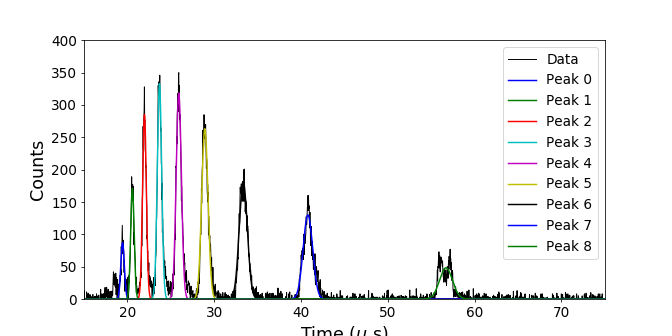
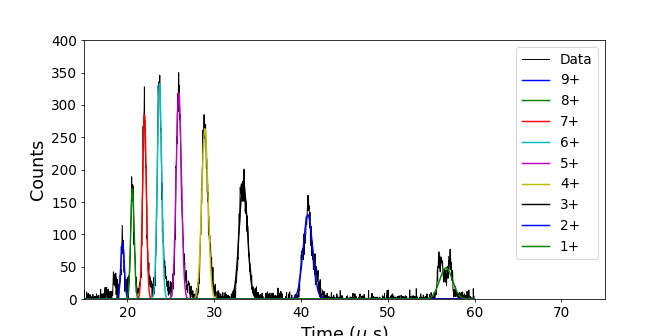
Added charge states on graph

diff --git a/analysis.py b/analysis.py
@@ -82,6 +82,8 @@ Flag_Fig0 = 0  # Flag for plotting/displaying figure - Raw spectra
 Flag_Fig1 = 0  # Flag for plotting/displaying figure - Subtracted spectra and fits
 Flag_Fig2 = 0  # Flag for plotting/displaying figure - Width vs Mean
 Flag_Fig3 = 1  # Flag for plotting/displaying figure - Plots of Time ratio and Charge ratio
+Flag_Fig4 = 1  # Flag for plotting/displaying final figure - Peaks identified by charge state
+
 colors = itertools.cycle(["b", "g", "r", "c", "m", "y", "k"])  # Colors database for plotting
 
 # Fitting parameters
@@ -89,26 +91,26 @@ time_const = 0.03  # Bin width during measurement in microseconds (Default 30 ns
 wid = 0.5  # Initial variables for fitting peak - width of peak (in us)
 dis = 40  # Distance (in channel) between two consecutive peak search
 h = 75  # Threshold for peak search
-# mass_Cs = 133
-# z_Cs = 55
-
+mass_Cs = 133  # Mass of ion
+z_Cs = 55  # Atomic number of ion
+length = 1200  # Length of spectrum used in analysis (Max channel number)
 # ----------------------------------------
 # An inline test function for Gaussian distribution, may be useless for this program but good tool for future use.
 # gaus = lambda x, *p: p[0]*exp(-((x-p[1])/p[2])**2)
 
 # File read and data sorting performed here. Zeroth (First) line is header. usecols could be set to 1 but I have left
 # it as 'range' to make it future proof. Range selects number of columns to be imported.
-# df is the data file and df_back is the background file.
+# data_file is the data file and data_file_bkg is the background file.
 data_file = pd.read_csv("./data/Cs_chargebred_1ms_13_12_2019__2_02_33_PM.txt", header=0, usecols=[i for i in range(1)])
 data_file_bkg = pd.read_csv("./data/Cs_chargebred_1ms_bkg_13_12_2019__2_09_10_PM.txt", header=0,
                             usecols=[i for i in range(1)])
 x = pd.Series(time_const * np.arange(len(data_file)))  # Creating an x-axis (time) as this is a 1D data
-dd = pd.concat([x, data_file], axis=1)  # Concatenating data in a pandas dataframe from x and y variables.
+dd = pd.concat([x[1:length], data_file[1:length]], axis=1)  # Concatenating data in a pandas dataframe from x and y variables.
 dd.columns = ['Time', 'Counts']  # Adding column headers manually
 # x = dd.loc[:, 'Time']
 y_raw = dd.loc[:, 'Counts']  # y raw data
 
-dd = pd.concat([x, data_file_bkg], axis=1)  # Creating datframe for background data
+dd = pd.concat([x[1:length], data_file_bkg[1:length]], axis=1)  # Creating datframe for background data
 dd.columns = ['Time', 'Counts']  # Adding column headers manually
 y_back = dd.loc[:, 'Counts']  # y background data
 
@@ -119,8 +121,8 @@ y_vals = y_raw - y_back  # Final subtracted y values
 if Flag_Fig0 == 1:
     # Section to see visually how spectra look.
     plt.figure(0, figsize=plt.figaspect(0.5), dpi=dpiCount)
-    plt.plot(x, y_raw, '-g', Linewidth=1, label="Raw Data")
-    plt.plot(x, y_back, '-r', Linewidth=1, label="Background")
+    plt.plot(x_vals, y_raw, '-g', Linewidth=1, label="Raw Data")
+    plt.plot(x_vals, y_back, '-r', Linewidth=1, label="Background")
     plt.plot(x_vals, y_vals, '-k', Linewidth=1, label="Subtracted Data")
     plt.legend(loc="upper right", fontsize=18)
     plt.xlim(10, 70)
@@ -189,16 +191,16 @@ time_ratio_round = round_array(time_ratio, 2)  # Rounded to 2 decimal places but
 charge = np.arange(1, z_Cs)
 charge_state_min = 1
 charge_state_norm_index = 0
-minsum_arr = []
+Res_arr = []
 # Time ratio from experimental data
 for charge_state_min in range(1, z_Cs):
     charge_state_max = charge_state_min + len(Peak_parameters) - 1
     charge_state_rev_arr = reverse_count(charge_state_min, charge_state_max)    # Charge array in reverse order created
     charge_state_arr = norm_charge(charge_state_rev_arr, charge_state_norm_index)   # Normalized charge state array
-    minsum = abs(sum(charge_state_arr - time_ratio))
-    minsum_arr.append(minsum)
+    msum = abs(sum(charge_state_arr - time_ratio))
+    Res_arr.append(msum)
 
-charge_state_min =  minsum_arr.index(min(minsum_arr)) + 1
+charge_state_min = Res_arr.index(min(Res_arr)) + 1
 charge_state_max = charge_state_min + len(Peak_parameters) - 1
 charge_state_rev_arr = reverse_count(charge_state_min, charge_state_max)  # Charge array in reverse order created
 charge_state_arr = norm_charge(charge_state_rev_arr, charge_state_norm_index)  # Normalized charge state array
@@ -221,4 +223,28 @@ Peak_data = pd.DataFrame({'Amplitude': Peak_parameters[:, 0], 'Amplitude_Error':
 print(Peak_data)
 Peak_data.to_csv('Fit_vals.csv', index=False)
 
+SSM = sum((charge_state_arr - time_ratio)**2)
+
+print("Least sum is %f " % SSM)
+
+
+# Plotting final spectra with charge identified peaks.
+plt.figure(4, figsize=plt.figaspect(0.5), dpi=dpiCount)
+plt.plot(x_vals, y_vals, '-k', Linewidth=1, label="Data")
+
+charge_peak = charge_state_max
+for npeak in range(len(peaks)):  # First level for rows
+    if Flag_Fig4 == 1:
+        labelFit = '%d+' % charge_peak  # Dynamic label maker
+        plt.plot(x_vals, Gaus(x_vals, Peak_parameters[npeak, 0], Peak_parameters[npeak, 2], Peak_parameters[npeak, 4]),
+                 color=next(colors), label=labelFit)  # Index 0,2,4 are Amplitude, Mean and Width
+        charge_peak -= 1
+plt.legend(loc="upper right", fontsize=14)
+plt.xlim(15, 75)
+plt.xticks(fontsize=14)
+plt.xlabel(r'Time ($\mu$ s)', fontsize=18)
+plt.ylim(0, round(max(y_raw), -2))
+plt.yticks(fontsize=14)
+plt.ylabel('Counts', fontsize=18)
+plt.savefig('Fit.png')  # FIle saving
 plt.show()  # This should be at the end so that all the plt objects show
